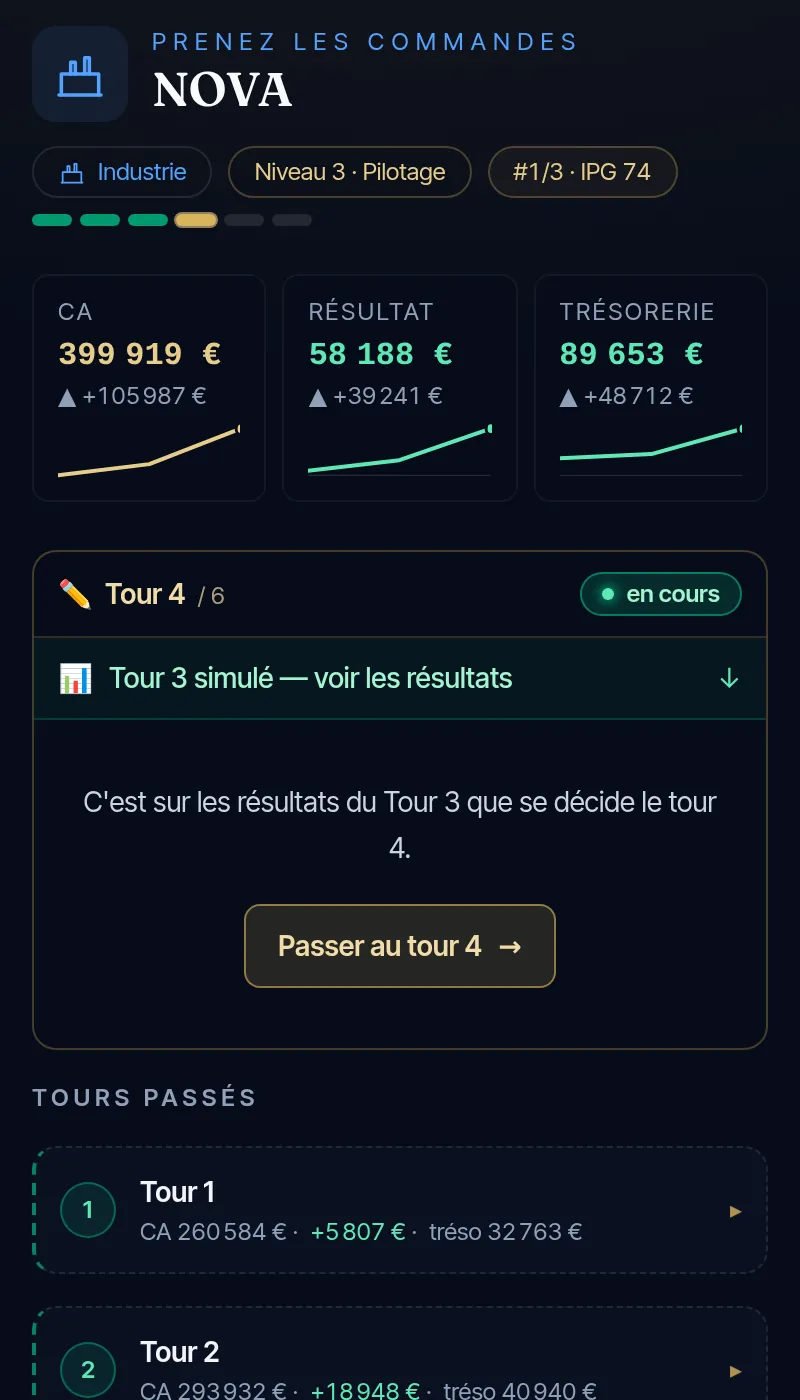
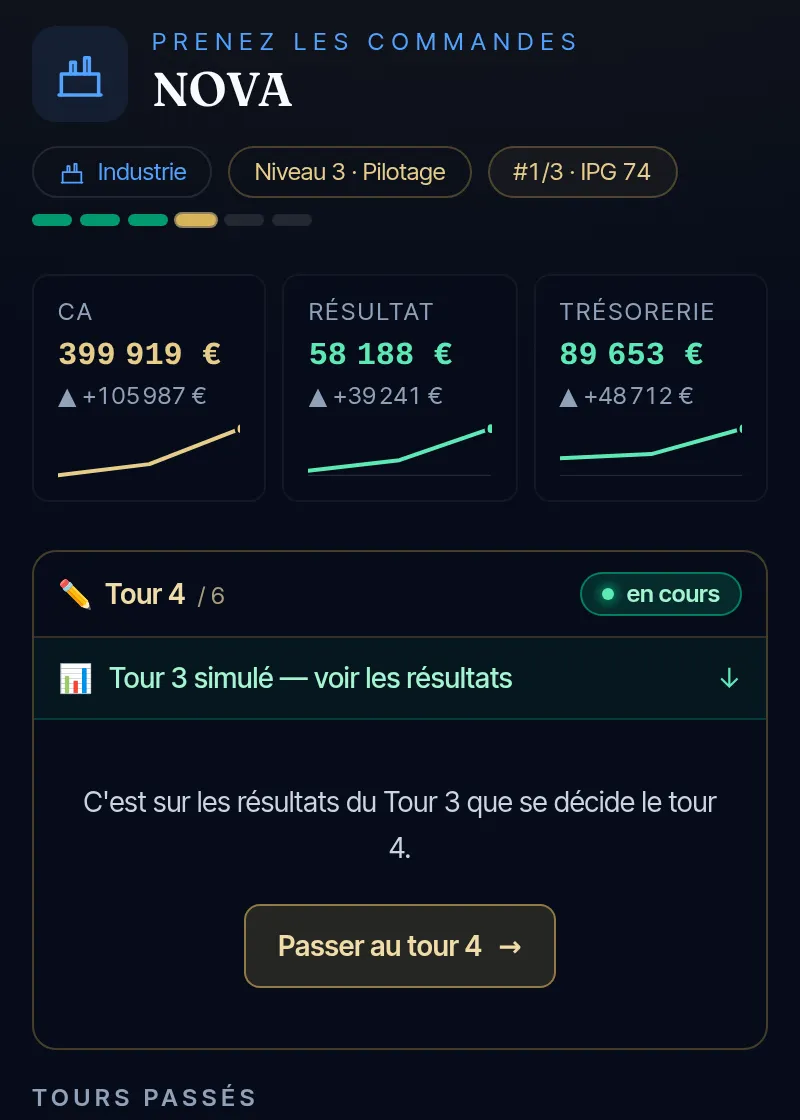
Les trois captures tenues comme une main de cartes
L'en-tête ne montrait qu'un écran, et très haut : 560 pixels d'image contre
380 de texte, le déséquilibre se voyait. Les trois captures sont recadrées au
même format — 800 × 1120, la forme d'une carte — et posées en éventail :
l'arène devant, la feuille de décision derrière à gauche, le verdict derrière
à droite.

La hauteur se règle enfin sur le bloc de texte d'à côté : le cadre porte un
rapport de forme (9/8) plutôt que la hauteur d'une image, donc la main occupe
la place qu'on lui donne et non celle que voudrait la plus haute des trois.
Mesuré : 434 px contre 345 au texte, là où l'image seule en faisait 560.

L'ÉVENTAIL EST FIXE, PAS TIRÉ AU SORT. Un ordre aléatoire aurait deux
défauts : le serveur et le navigateur tireraient deux mains différentes, et la
page se repeindrait sous l'œil du visiteur ; et le produit changerait de
visage d'une visite à l'autre. L'ordre choisi dit d'ailleurs quelque chose —
devant, l'écran où l'élève passe son temps.

Deux détails qui suivent. Les cartes du fond ne portent pas de texte de
remplacement : les mêmes écrans sont montrés en grand deux sections plus bas,
et les faire lire deux fois à une synthèse vocale n'apprendrait rien. Et elles
n'ont pas le dégradé du bas — une carte a un bord ; le dégradé laisserait voir
la carte de derrière à travers celle de devant.

Les dimensions, jusqu'ici recopiées à deux endroits et fausses depuis le
recadrage (800 déclaré, 1120 réel), sont écrites une seule fois. La garde
[…]

diff --git a/src/app/page.tsx b/src/app/page.tsx
@@ -90,36 +90,39 @@ export const metadata: Metadata = {
 };
 
 /**
+ * LE FORMAT DES TROIS CAPTURES — 800 × 1120, la forme d'une carte à jouer.
+ *
+ * Les trois écrans sont recadrés à la même taille, et c'est ce qui permet de
+ * les poser en main de cartes : trois images de hauteurs différentes ne
+ * forment pas un éventail, elles forment un escalier. Les dimensions sont
+ * écrites dans la page (sinon le texte saute au chargement), donc elles sont
+ * écrites UNE fois, ici.
+ */
+const CARTE = { largeur: 800, hauteur: 1120 };
+
+/**
  * UNE CAPTURE DE L'APPLICATION, ENCADRÉE.
  *
  * Trois écrans réels vivent sur cette page, et ils se posent de la même façon :
- * dimensions écrites (sans elles, la page saute au chargement), texte de
- * remplacement qui dit ce qu'on y voit, et une légende qui dit à quoi il sert.
- * Les deux captures du bas se chargent paresseusement — elles sont sous la
- * ligne de flottaison —, celle de l'en-tête non.
+ * dimensions écrites, texte de remplacement qui dit ce qu'on y voit, et une
+ * légende qui dit à quoi il sert. Les captures du bas se chargent
+ * paresseusement — elles sont sous la ligne de flottaison.
  */
 function Capture({
   src,
   alt,
   legende,
-  largeur = 800,
-  hauteur = 800,
-  immediate = false,
-  className = "",
-  classeCadre = "",
+  largeur = CARTE.largeur,
+  hauteur = CARTE.hauteur,
 }: {
   src: string;
   alt: string;
   legende: string;
   largeur?: number;
   hauteur?: number;
-  immediate?: boolean;
-  className?: string;
-  /** Pour borner le CADRE sans rétrécir la légende avec lui. */
-  classeCadre?: string;
 }) {
   return (
-    <figure className={`m-0 ${className}`}>
+    <figure className="m-0">
       {/*
         LE BAS DE L'IMAGE S'ÉTEINT plutôt que de se couper net. Une capture est
         un morceau d'écran : coupée à la règle, elle a l'air d'un bug — le
@@ -127,15 +130,13 @@ function Capture({
         dit que l'écran continue, et il emporte la bordure avec lui, sinon un
         trait flotterait sous du vide.
       */}
-      <div
-        className={`overflow-hidden rounded-2xl border border-white/10 bg-slate-900 shadow-2xl shadow-slate-950/40 [mask-image:linear-gradient(to_bottom,#000_86%,transparent_100%)] ${classeCadre}`}
-      >
+      <div className="overflow-hidden rounded-2xl border border-white/10 bg-slate-900 shadow-2xl shadow-slate-950/40 [mask-image:linear-gradient(to_bottom,#000_86%,transparent_100%)]">
         {/* eslint-disable-next-line @next/next/no-img-element */}
         <img
           src={src}
           width={largeur}
           height={hauteur}
-          loading={immediate ? "eager" : "lazy"}
+          loading="lazy"
           decoding="async"
           alt={alt}
           className="block w-full"
@@ -143,6 +144,98 @@ function Capture({
       </div>
       <figcaption className="mt-3 text-center text-sm leading-relaxed text-slate-400">
         {legende}
+      </figcaption>
+    </figure>
+  );
+}
+
+/**
+ * UNE CARTE DE LA MAIN : la capture, posée et tournée.
+ *
+ * Ici pas de dégradé en bas — une carte a un bord. Le dégradé sert dans le
+ * corps de la page, où l'image doit dire « l'écran continue » ; dans la main,
+ * il laisserait voir la carte de derrière à travers celle de devant.
+ *
+ * Les deux cartes du fond sont assourdies (bordure plus pâle, opacité) : c'est
+ * ce qui fait une profondeur, sans quoi trois images de même contraste se
+ * disputent l'œil.
+ */
+function CarteEnMain({
+  src,
+  alt,
+  pose,
+  fond = false,
+}: {
+  src: string;
+  alt: string;
+  /** Position et angle dans le cadre de la main. */
+  pose: string;
+  fond?: boolean;
+}) {
+  return (
+    <div
+      className={`absolute w-[52%] overflow-hidden rounded-2xl border bg-slate-900 shadow-2xl ${pose} ${
+        fond
+          ? "border-white/5 opacity-60 shadow-slate-950/60"
+          : "border-white/15 shadow-slate-950/70"
+      }`}
+    >
+      {/* eslint-disable-next-line @next/next/no-img-element */}
+      <img
+        src={src}
+        width={CARTE.largeur}
+        height={CARTE.hauteur}
+        // Les trois sont dans l'en-tête : les charger paresseusement ne
+        // gagnerait rien et montrerait trois cadres vides le temps d'un
+        // battement.
+        loading="eager"
+        decoding="async"
+        alt={alt}
+        className="block w-full"
+      />
+    </div>
+  );
+}
+
+/**
+ * LES TROIS ÉCRANS, TENUS COMME UNE MAIN DE CARTES.
+ *
+ * L'en-tête ne montrait qu'un écran, et très haut : une colonne d'image de
+ * 560 pixels contre un bloc de texte de 380, le déséquilibre se voyait. Les
+ * trois captures, désormais au même format, se posent en éventail — et la
+ * hauteur de l'éventail se règle enfin sur le texte d'à côté.
+ *
+ * LE CADRE PORTE UN RAPPORT DE FORME (9/8) plutôt qu'une hauteur d'image : la
+ * main occupe donc une hauteur connue d'avance, celle qu'on lui donne, et non
+ * celle que voudrait la plus haute des trois images.
+ *
+ * L'ÉVENTAIL EST FIXE, PAS TIRÉ AU SORT. Un ordre aléatoire aurait deux
+ * défauts, l'un technique et l'autre de fond : le serveur et le navigateur
+ * tireraient deux mains différentes, et la page se repeindrait sous l'œil du
+ * visiteur ; et le produit changerait de visage d'une visite à l'autre. La
+ * main choisie dit d'ailleurs quelque chose — devant, l'écran où l'élève
+ * passe son temps ; derrière, les deux moments du tour, dans l'ordre où la
+ * page les raconte plus bas.
+ *
+ * LES CARTES DU FOND NE SONT PAS DÉCRITES. Les mêmes écrans sont montrés en
+ * grand, avec leur texte de remplacement, deux sections plus bas : les faire
+ * lire deux fois à une synthèse vocale n'apprendrait rien à personne.
+ */
+function MainDeCartes() {
+  return (
+    <figure className="m-0">
+      <div className="relative mx-auto aspect-[9/8] w-full max-w-[440px]">
+        <CarteEnMain src="/apercus/decider.webp" alt="" fond pose="left-[2%] top-[11%] -rotate-[9deg]" />
+        <CarteEnMain src="/apercus/resultats.webp" alt="" fond pose="left-[46%] top-[11%] rotate-[9deg]" />
+        <CarteEnMain
+          src="/apercus/arene.webp"
+          pose="left-[24%] top-[4%]"
+          alt="L'arène d'une équipe au quatrième tour : chiffre d'affaires 399 919 €, résultat 58 188 €, trésorerie 89 653 €, et le tour en cours à jouer."
+        />
+      </div>
+      <figcaption className="mt-5 text-center text-sm leading-relaxed text-slate-400">
+        Trois écrans d&apos;une même partie : l&apos;arène, la feuille de
+        décision, le verdict du tour.
       </figcaption>
     </figure>
   );
@@ -266,15 +359,15 @@ export default async function Home() {
         </div>
 
         {/*
-          UNE CAPTURE DE L'APPLICATION, ET NON UN ÉCRAN DESSINÉ.
+          DES CAPTURES DE L'APPLICATION, ET NON DES ÉCRANS DESSINÉS.
 
           Cette colonne a porté trois choses successives. D'abord un cockpit
           dessiné à la main, avec des chiffres inventés — « chiffre d'affaires
           346 920 € » — : il promettait une simulation sans en faire tourner
           une. Puis un tour jouable, qui tenait la promesse mais faisait de
-          l'accueil un mini-jeu. Maintenant l'écran réel.
+          l'accueil un mini-jeu. Maintenant les écrans réels.
 
-          ELLE EST PRISE SUR L'APPLICATION, pas redessinée : la partie a été
+          ILS SONT PRIS SUR L'APPLICATION, pas redessinés : la partie a été
           jouée, les chiffres sont ceux que le moteur a calculés. C'est la seule
           façon qu'une capture ne mente pas — et la raison pour laquelle on ne
           retouche pas les montants pour les rendre flatteurs.
@@ -282,14 +375,7 @@ export default async function Home() {
           Le format sert aussi à dire quelque chose : c'est un téléphone, parce
           que c'est là que l'élève joue.
         */}
-        <Capture
-          src="/apercus/arene.webp"
-          hauteur={1400}
-          immediate
-          classeCadre="mx-auto max-w-[320px]"
-          alt="L'arène d'une équipe au quatrième tour : chiffre d'affaires 399 919 €, résultat 58 188 €, trésorerie 89 653 €, et le tour en cours à jouer."
-          legende="L'arène d'une équipe, sur le téléphone d'un élève."
-        />
+        <MainDeCartes />
       </section>
 
       {/* ---------- Les métiers, montrés ---------- */}

diff --git a/tests/unit/capture-accueil.test.ts b/tests/unit/capture-accueil.test.ts
@@ -26,6 +26,21 @@ const CAPTURES = ["arene", "decider", "resultats"].map((nom) => ({
   chemin: join(RACINE, "public", "apercus", `${nom}.webp`),
 }));
 
+/**
+ * La taille d'un WebP, lue dans l'image elle-même.
+ *
+ * Trois lignes plutôt qu'une dépendance : nos captures sont des WebP simples
+ * (un seul bloc VP8), et leur en-tête range la largeur et la hauteur sur
+ * quatorze bits, juste après le code de départ, à une place fixe.
+ */
+function tailleWebp(chemin: string): { largeur: number; hauteur: number } {
+  const b = readFileSync(chemin);
+  if (b.toString("ascii", 0, 4) !== "RIFF" || b.toString("ascii", 8, 12) !== "WEBP") {
+    throw new Error(`${chemin} n'est pas un WebP`);
+  }
+  return { largeur: b.readUInt16LE(26) & 0x3fff, hauteur: b.readUInt16LE(28) & 0x3fff };
+}
+
 describe("les captures de la page d'accueil", () => {
   it("existent, et pèsent le poids d'images, pas celui de photos", () => {
     for (const { nom, chemin } of CAPTURES) {
@@ -40,15 +55,49 @@ describe("les captures de la page d'accueil", () => {
 
   it("sont posées avec leurs dimensions : sans elles, la page saute au chargement", () => {
     for (const { nom } of CAPTURES) expect(ACCUEIL, nom).toContain(`/apercus/${nom}.webp`);
-    // Le composant `Capture` les porte pour les trois, d'un seul endroit.
+    // Les dimensions sont écrites une fois, dans `CARTE`, et les deux façons
+    // de poser une capture — le cadre du corps de page et la carte de la main
+    // — les lisent toutes les deux là.
+    expect(ACCUEIL).toMatch(/const CARTE = \{ largeur: 800, hauteur: 1120 \}/);
     expect(ACCUEIL).toMatch(/width=\{largeur\}/);
     expect(ACCUEIL).toMatch(/height=\{hauteur\}/);
-    expect(ACCUEIL).toMatch(/hauteur = 800/);
-    expect(ACCUEIL).toMatch(/hauteur=\{1400\}/);
+    expect(ACCUEIL).toMatch(/largeur = CARTE\.largeur/);
+    expect(ACCUEIL).toMatch(/hauteur = CARTE\.hauteur/);
+    expect(ACCUEIL).toMatch(/width=\{CARTE\.largeur\}/);
+    expect(ACCUEIL).toMatch(/height=\{CARTE\.hauteur\}/);
+  });
+
+  it("ont toutes la même taille, sans quoi la main de cartes serait un escalier", () => {
+    // L'en-tête pose les trois captures en éventail. Un recadrage qui
+    // changerait la hauteur de l'une d'elles ferait dépasser une carte, et
+    // rien dans la page ne le dirait : c'est ici que ça se voit.
+    for (const { nom, chemin } of CAPTURES) {
+      expect(tailleWebp(chemin), nom).toEqual({ largeur: 800, hauteur: 1120 });
+    }
+    // Et la page annonce bien la taille qu'elles ont vraiment : une image
+    // déclarée trop haute réserve une place que l'image ne remplit pas.
+    const { largeur, hauteur } = tailleWebp(CAPTURES[0]!.chemin);
+    expect(ACCUEIL).toContain(`largeur: ${largeur}, hauteur: ${hauteur}`);
+  });
+
+  it("l'éventail est arrêté, pas tiré au sort à chaque rendu", () => {
+    // Un ordre aléatoire se tirerait deux fois — une fois sur le serveur, une
+    // fois dans le navigateur — et la page se repeindrait sous l'oeil du
+    // visiteur. Les angles et les places sont donc écrits.
+    expect(ACCUEIL).not.toMatch(/Math\.random/);
+    expect(ACCUEIL).toMatch(/-rotate-\[9deg\]/);
+    expect(ACCUEIL).toMatch(/\brotate-\[9deg\]/);
+    // La hauteur de la main vient d'un rapport de forme, pas de l'image : sans
+    // lui, l'en-tête reprendrait la hauteur de la plus haute des captures et
+    // écraserait le bloc de texte d'à côté.
+    expect(ACCUEIL).toMatch(/aspect-\[9\/8\]/);
   });
 
   it("disent ce qu'on y voit, pour qui ne les voit pas", () => {
     const alts = [...ACCUEIL.matchAll(/alt="([^"]+)"/g)].map((m) => m[1]!);
+    // Trois descriptions pour trois écrans. Les deux cartes du fond de la
+    // main sont les mêmes images, montrées en grand plus bas : elles portent
+    // un texte de remplacement vide, pour ne pas les faire lire deux fois.
     expect(alts).toHaveLength(3);
     for (const alt of alts) expect(alt.length).toBeGreaterThan(40);
     // Les chiffres des textes de remplacement sont ceux des captures : une
